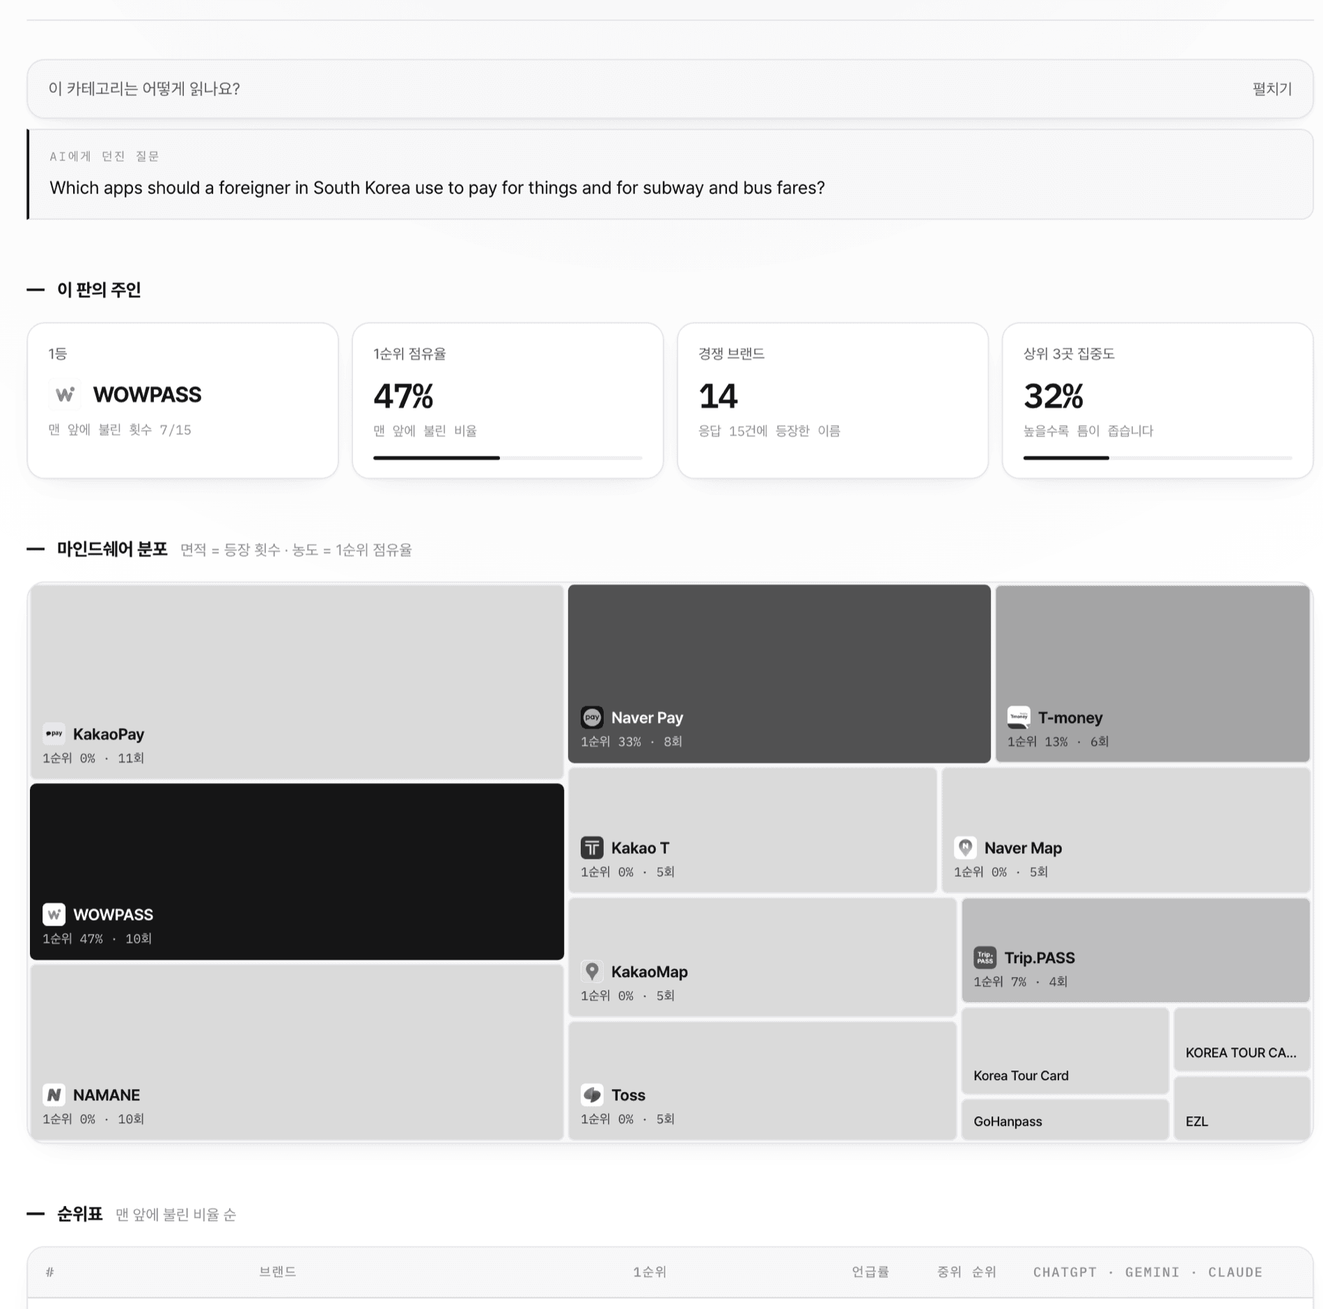
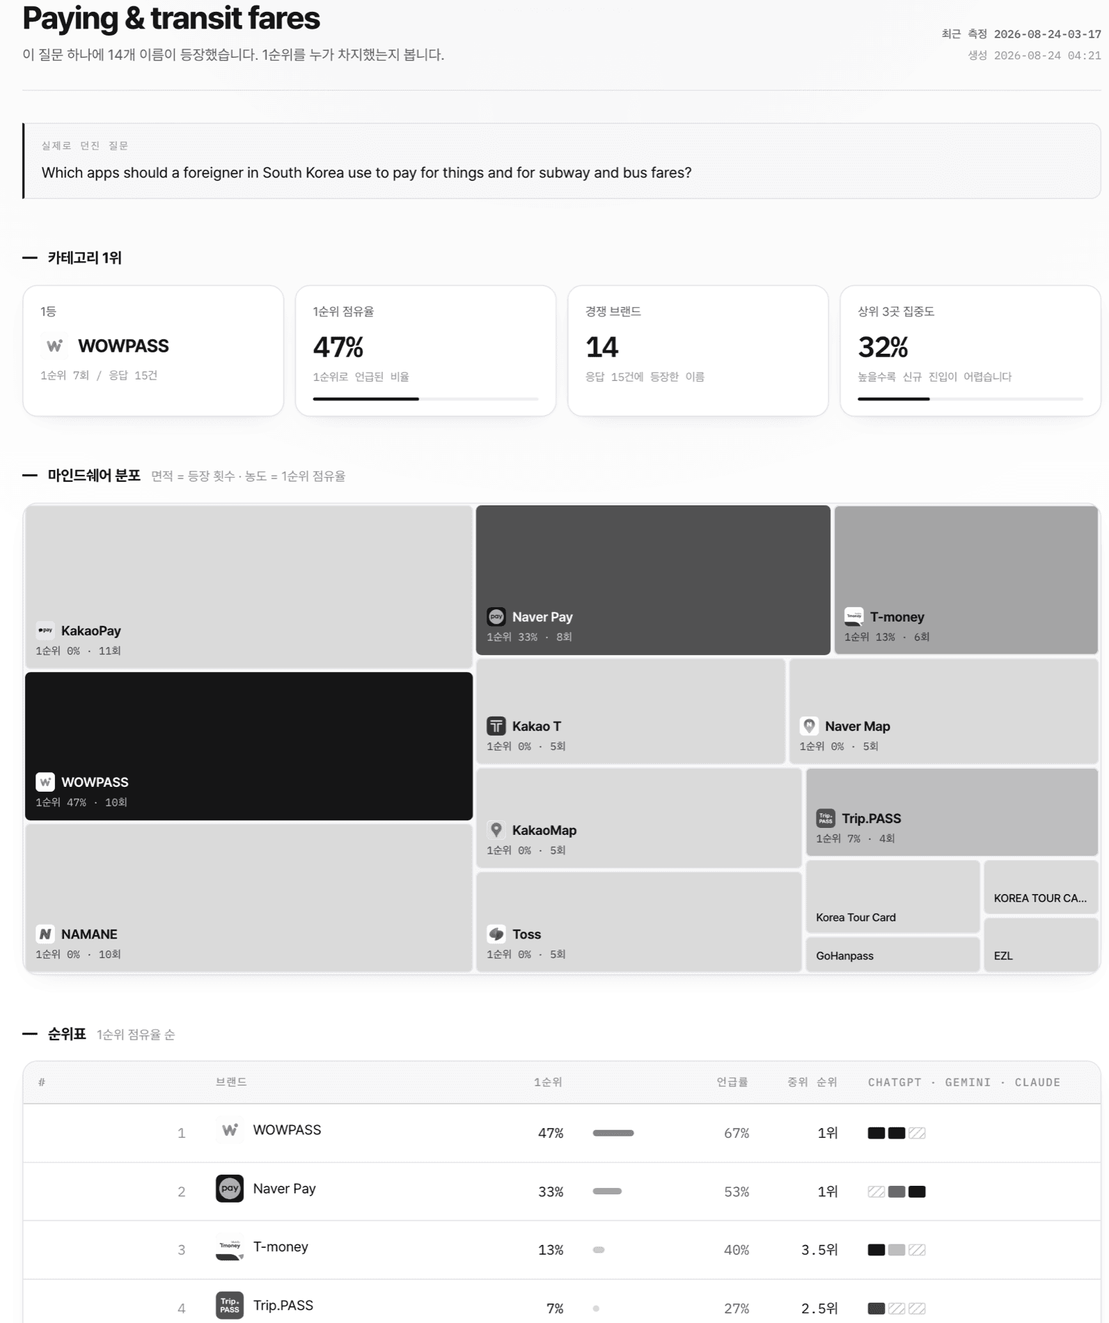
refactor(ui): 화면에서 설명 문단을 걷어낸다 — 듄·스릿지식 데이터 우선
데이터 플랫폼은 데이터를 보여줘야 한다. 차트마다 해설 문단이 붙어 있으면
읽는 사람이 숫자보다 글을 먼저 만난다. 듄은 쿼리 제목과 차트로 끝내고,
스릿지도 카드와 트리맵만 놓는다.

- 데이터 화면(홈·카테고리 8·판세·요약·경쟁 구도·진단·출처)의 note 문단을
  전부 제거. 남은 note 는 방법론·원문 증거·측정 실행·설정뿐이고, 그쪽은
  읽으라고 만든 화면이다
- 홈과 요약의 intro 에세이 블록 삭제. 헤더 부제가 이미 같은 말을 한다
- 추세 차트의 해설 문단을 범례로 교체(● 이동평균 / ○ 회차별 값 / ┆ 질문
  세트 교체). 밀도판·트리맵과 같은 방식으로 통일
- 도움말 아코디언을 화면 맨 아래로 이동. 설명이 필요한 사람은 펼치면 되고,
  기본 상태에서는 데이터가 먼저 온다

말투도 같이 정리했다. 앞 커밋에서 구어체로 넘어간 부분을 용어로 되돌렸다.
"여기는 이미 자리가 굳었습니다" → "1위가 고정된 카테고리입니다",
"새 이름이 끼기 어렵습니다" → "신규 진입이 어렵습니다",
"한 주제에서만 삽니다" → "한 질문에서만 등장합니다",
"사람은 대개 첫 줄만 읽으니까요" → "첫 줄만 읽고 넘어가는 사용자가 많습니다".
불리다·자리·판·주인 같은 표현을 언급·1순위·카테고리로 통일했다.

스크린샷 4장 교체.

diff --git a/web/public/app.js b/web/public/app.js
@@ -24,7 +24,7 @@ const BASE_VIEWS = [
   ["home", "카테고리 한눈에", "마인드쉐어", "카테고리마다 AI가 맨 앞에 부르는 이름을 모았습니다."],
   ["brands", "브랜드 프로필", "브랜드", "고른 브랜드가 어느 카테고리에 있고 어디가 비었는지."],
   ["summary", "요약", "브랜드", "고른 브랜드의 등장 빈도와 순위를 한 화면에 모았습니다."],
-  ["compete", "경쟁 구도", "브랜드", "자리를 대신 차지한 브랜드와 늘 함께 불리는 브랜드입니다."],
+  ["compete", "경쟁 구도", "브랜드", "1순위를 대신 차지한 브랜드와 함께 언급되는 브랜드입니다."],
   ["diagnose", "질문·모델 진단", "브랜드", "카테고리와 모델별로 어디가 약한지 밀도로 표시합니다."],
   ["sources", "출처", "브랜드", "답변에 붙은 출처 도메인입니다."],
   ["evidence", "원문 증거", "브랜드", "회차별 응답 원문의 저장 위치 색인."],
@@ -37,7 +37,7 @@ const BASE_VIEWS = [
 function allViews() {
   const cats = (DATA?.categories ?? []).map((c) => [
     `cat:${c.id}`, c.short, "카테고리",
-    `이 질문 하나를 두고 ${c.contenders}개 이름이 겹칩니다. 맨 앞자리를 누가 가져갔는지 봅니다.`,
+    `이 질문 하나에 ${c.contenders}개 이름이 등장했습니다. 1순위를 누가 차지했는지 봅니다.`,
   ])
   const [home, ...rest] = BASE_VIEWS
   return [home, ...cats, ...rest]
@@ -107,14 +107,14 @@ function sparkline(points, { w = 640, h = 140 } = {}) {
     `</svg>`,
   ].join("")
 
+  // 범례로 끝낸다. 문단 설명은 화면 아래 도움말이 담당한다.
   const protos = [...new Set(points.map((p) => p.protocol))]
-  const notes = ["채운 점과 실선은 이동평균, 빈 점은 회차별 값. 표본이 작아 회차별 변동이 큽니다."]
-  if (protos.length > 1) {
-    notes.push("점선은 <b>질문 세트가 바뀐 지점</b>. 앞뒤가 서로 다른 질문으로 잰 값이라 선을 잇지 않았습니다.")
-  } else if (points.length < 2) {
-    notes.push("현재 측정 시점이 1개입니다. 추세선은 다음 측정부터 그려집니다.")
-  }
-  return el("div", {}, el("div", { class: "chart", html: svg }), el("p", { class: "note", html: notes.join(" ") }))
+  const legend = el("div", { class: "ramp" },
+    el("span", {}, "● 이동평균"),
+    el("span", {}, "○ 회차별 값"),
+    protos.length > 1 ? el("span", {}, "┆ 질문 세트 교체") : null,
+    points.length < 2 ? el("span", {}, "측정 시점 1개 · 추세선은 다음 회차부터") : null)
+  return el("div", {}, el("div", { class: "chart", html: svg }), legend)
 }
 
 // 순위 분포 — 하나의 가로 막대에 쌓는다. 표로 나열하면 "미언급이 얼마나 큰 덩어리인가"가
@@ -345,22 +345,6 @@ function sortableTable(id, cols, rows, { highlight, initial } = {}) {
 }
 
 // ---------- 뷰 ----------
-function intro(b) {
-  const kr = "한국어 로컬 질문"
-  return el("div", { class: "intro" },
-    el("p", { class: "lead" },
-      "같은 질문을 여러 번 반복해서 모은 숫자입니다."),
-    el("p", {},
-      "AI는 같은 질문에도 매번 다르게 답합니다. 반복해서 물어야 우연과 경향이 갈립니다. " +
-      "질문에는 브랜드 이름을 넣지 않았고, 응답에 등장한 브랜드를 모두 집계했습니다."),
-    el("p", {},
-      "측정 도구는 직접 만들었고 코드와 응답 원문을 전부 공개합니다. 숫자가 어디서 나왔는지 직접 확인할 수 있습니다."),
-    el("p", { class: "byline" },
-      "최재원 · 측정 도구 ", el("a", { href: "https://github.com/choiaewoooon/geo-probe", target: "_blank", rel: "noopener" }, "geo-probe"),
-      " · 자세한 계산 규칙과 한계는 ", el("a", { href: "#", "data-go": "method" }, "방법론"), " 참조"),
-  )
-}
-
 function viewSummary(b) {
   const v = b.visibility
   const c = b.completeness
@@ -369,15 +353,12 @@ function viewSummary(b) {
   const cls = { 높음: "good", 중간: "warn", 낮음: "bad", 상승: "good", 하락: "bad" }
 
   return el("div", {},
-    intro(b),
     sourceSwitch(),
     el("div", { class: "pills" },
       el("span", { class: `pill ${cls[st.visibility] ?? ""}` }, "가시성 ", el("b", {}, st.visibility)),
       el("span", { class: `pill ${st.reproducibility === "높음" ? "good" : "warn"}` }, "결과 일관성 ", el("b", {}, st.reproducibility)),
       el("span", { class: `pill ${cls[st.direction] ?? ""}` }, "방향 ", el("b", {}, st.direction)),
     ),
-    el("p", { class: "note" },
-      "언급률·순위·점유율을 임의 가중치로 합치면 근거 없이 정밀해 보입니다. 그래서 종합 점수 대신 위 라벨만 둡니다."),
 
     el("h2", {}, "핵심 지표"),
     el("div", { class: "cards" },
@@ -438,10 +419,6 @@ function viewCompete(b) {
   return el("div", {},
     el("h2", {}, "점유율 분포", el("small", {}, "면적 = 등장 횟수 · 농도 = 점유율")),
     treemap(tiles, { me: b.brand, label: (t) => `${t.sov}% · ${t.value}회` }),
-    el("p", { class: "note", html:
-      `「자사」 표시가 붙은 칸이 <b>${b.brand}</b>. 등장이 많은 상위 ${tiles.length}곳만 그렸고, ` +
-      `전체 등장 ${allN}회 중 ${Math.round((shown / allN) * 100)}%를 덮습니다. ` +
-      "추적 질문 안에서 답변에 등장한 비율이며, <b>실제 시장 점유율과는 다릅니다.</b>" }),
 
     el("h2", {}, "추적 질문군 내 응답 점유율", el("small", {}, "실제 시장 점유율이 아닙니다")),
     sortableTable("sov", [
@@ -453,7 +430,6 @@ function viewCompete(b) {
       { key: "medianRank", label: "중위 순위", cls: "n", num: true, bestLow: true,
         render: (r) => (r.medianRank === null ? "-" : `${r.medianRank}위`) },
     ], b.shareOfVoice.slice(0, 20), { highlight: isMe, initial: { key: "appearances", dir: "desc" } }),
-    el("p", { class: "note" }, "열 제목을 누르면 그 기준으로 정렬됩니다. 한 번 더 누르면 방향이 바뀝니다."),
 
     el("h2", {}, "선택한 브랜드가 빠졌을 때 등장한 브랜드",
       el("small", {}, `${b.substitution.missedN}건 기준 · 한 응답에 여러 곳이 나와 합계는 100%를 넘을 수 있음`)),
@@ -483,9 +459,6 @@ function viewDiagnose(b) {
   return el("div", {},
     el("h2", {}, "밀도 매트릭스", el("small", {}, "질문 × 모델")),
     densityMatrix(b),
-    el("p", { class: "note", html:
-      "큰 숫자는 <b>언급됐을 때의 중위 순위</b>, 작은 숫자는 <b>언급 횟수 / 유효 응답</b>입니다. " +
-      "가장자리 점선 칸은 줄과 열의 합계입니다. 모델마다 검색 조건이 달라 열끼리 우열은 매기지 않습니다." }),
 
     el("h2", {}, "약한 조합", el("small", {}, `언급률 50% 미만 ${weak.length}개`)),
     weak.length
@@ -513,9 +486,7 @@ function viewSources(b) {
         html: "이번 측정에서는 어떤 모델도 응답에 출처 URL을 달지 않았습니다. " +
           "출처가 없으니 자사 도메인 인용률은 <b>측정 불가</b>로 적습니다. " +
           "출처를 주지 않은 것과 자사가 인용되지 않은 것은 서로 다른 사실입니다.",
-      }),
-      el("p", { class: "note" },
-        "출처를 재려면 웹 검색과 인용을 켠 모델 설정이 필요합니다. 자세한 조건은 방법론에."))
+      }),)
   }
   const q = c.quadrant
   return el("div", {},
@@ -534,8 +505,6 @@ function viewSources(b) {
       quad("외부 인식 중심 노출", q.외부인식_중심노출),
       quad("콘텐츠만 인용, 브랜드 연결 약함", q.콘텐츠만_사용),
       quad("미노출", q.미노출)),
-    el("p", { class: "note" },
-      "인용은 응답에 표시된 출처를 가리킵니다. 그 출처가 노출의 원인이라고 단정하지는 않습니다."),
   )
 }
 
@@ -901,19 +870,19 @@ const VIEW_HELP = {
     q: "이 화면은 무엇을 보여주나요?",
     body: [
       ["묻는 것", "<b>카테고리마다 AI가 누구를 맨 앞에 부르는지</b> 봅니다. 특정 브랜드를 기준으로 삼지 않습니다."],
-      ["1등의 기준", "목록 <b>맨 앞</b>에 불린 비율입니다. 사람은 대개 첫 줄만 읽으니까요."],
-      ["모델 분열", "세 모델이 서로 다른 1등을 꼽았습니다. <b>그 자리가 아직 비어 있다</b>는 신호입니다."],
-      ["브랜드 이름을 감춘 질문", "질문에 앱 이름을 하나도 넣지 않았습니다. 이름을 대고 물으면 모델이 그냥 설명해 주니까요."],
+      ["1등의 기준", "목록 <b>1순위</b>로 언급된 비율입니다. 첫 줄만 읽고 넘어가는 사용자가 많습니다."],
+      ["모델 분열", "세 모델이 서로 다른 1위를 꼽았습니다. <b>1위가 아직 고정되지 않았다</b>는 신호입니다."],
+      ["브랜드 이름을 감춘 질문", "질문에 앱 이름을 하나도 넣지 않았습니다. 이름을 대고 물으면 모델이 그대로 설명해 줍니다."],
     ],
   },
   category: {
     q: "이 카테고리는 어떻게 읽나요?",
     body: [
-      ["1순위 점유율", "<b>목록 맨 앞</b>에 불린 비율입니다. 이 카테고리의 주인을 가리는 값입니다."],
+      ["1순위 점유율", "<b>목록 1순위</b>로 언급된 비율입니다. 카테고리 1위를 가리는 기준입니다."],
       ["언급률", "목록 <b>어디에든</b> 이름이 오른 비율입니다. 1순위와는 다른 값이라 둘을 같이 봐야 합니다."],
-      ["마인드쉐어 분포", "면적은 등장 횟수, 농도는 맨 앞에 온 횟수입니다. <b>크고 옅은 타일</b>이 늘 불리지만 1등은 못 되는 브랜드입니다."],
-      ["상위 3곳 집중도", "상위 3곳이 가져간 몫입니다. 높을수록 새 이름이 끼기 어렵습니다."],
-      ["모델별 1등", "1등이 갈리는지 자체가 신호입니다. 갈렸다면 그 카테고리는 아직 비어 있습니다."],
+      ["마인드쉐어 분포", "면적은 등장 횟수, 농도는 1순위 횟수입니다. <b>크고 옅은 타일</b>은 자주 언급되지만 1순위는 아닌 브랜드입니다."],
+      ["상위 3곳 집중도", "상위 3곳이 차지한 비중입니다. 높을수록 신규 진입이 어렵습니다."],
+      ["모델별 1등", "1위가 갈리는지 자체가 신호입니다. 갈렸다면 아직 고정되지 않은 카테고리입니다."],
     ],
   },
   field: {
@@ -921,7 +890,7 @@ const VIEW_HELP = {
     body: [
       ["한 번의 측정, 여러 브랜드", "질문에 브랜드 이름이 없으니 같은 응답을 브랜드만 바꿔 다시 채점할 수 있습니다. 여기 숫자는 전부 <b>같은 표본</b>에서 나왔습니다."],
       ["폭과 깊이를 왜 나누나요", "전체 언급률 하나로 줄세우면 한 주제만 담당하는 브랜드가 손해를 봅니다. <b>등장 질문 수</b>가 폭, <b>가장 센 질문의 언급률</b>이 깊이입니다."],
-      ["밀도판 읽는 법", "가로로 빗금이 이어지면 한 주제에서만 사는 브랜드입니다. 좁은 것과 약한 것은 손볼 방법이 다릅니다."],
+      ["밀도판 읽는 법", "가로로 빗금이 이어지면 한 질문에서만 등장하는 브랜드입니다. 노출 범위가 좁은 것과 노출 강도가 약한 것은 원인이 다릅니다."],
       ["줄을 누르면", "그 브랜드로 나머지 화면이 전환됩니다. 요약·경쟁 구도·진단이 선택한 브랜드 기준으로 다시 그려집니다."],
     ],
   },
@@ -935,7 +904,7 @@ const VIEW_HELP = {
       ["결과 일관성", "같은 질문을 반복했을 때 결과가 얼마나 일정한지 봅니다. 5번 모두 나오거나 모두 안 나오면 100%, 3번이면 60%입니다."],
       ["측정 완결성", "재려던 횟수 중 실제로 쓸 만한 응답이 온 비율입니다. 빈 응답을 빼고 계산하면 나머지 숫자가 부풀려집니다."],
       ["순위 분포", "가운데 값 하나로는 보이지 않는 흔들림입니다. 1위도 있고 미언급도 있는지 그대로 펼쳐 보여줍니다."],
-      ["우선 점검할 질문", "언급률이 낮고 같은 경쟁사가 반복해서 그 자리를 가져간 질문 순입니다. 여기부터 손보시면 됩니다."],
+      ["우선 점검할 질문", "언급률이 낮고 같은 경쟁사가 반복해서 1순위를 차지한 질문 순입니다. 개선 우선순위로 보시면 됩니다."],
     ],
   },
   compete: {
@@ -959,7 +928,7 @@ const VIEW_HELP = {
     body: [
       ["인용 도메인", "AI 답변에 표시된 출처 도메인을 보여줍니다. 선택한 브랜드의 도메인과 외부 도메인을 나눠 볼 수 있습니다."],
       ["자사 도메인 인용률", "출처가 표시된 응답 중 그 브랜드의 도메인이 포함된 비율입니다. 출처가 아예 없는 모델은 0%가 아니라 <b>측정 불가</b>로 표시합니다."],
-      ["노출 × 자사 출처", "브랜드 언급 여부와 자사 도메인 인용 여부를 조합한 네 칸입니다. <b>브랜드는 안 불리는데 콘텐츠만 인용된 칸</b>은 정보가 브랜드로 연결되지 않는다는 신호입니다."],
+      ["노출 × 자사 출처", "브랜드 언급 여부와 자사 도메인 인용 여부를 조합한 네 칸입니다. <b>브랜드는 언급되지 않고 콘텐츠만 인용된 칸</b>은 정보가 브랜드로 연결되지 않는다는 신호입니다."],
       ["한계", "여기서 인용은 응답에 표시된 출처일 뿐, 노출의 원인은 아닙니다."],
     ],
   },
@@ -1098,18 +1067,6 @@ function viewHome() {
   const split = cats.filter((c) => !c.leaderAgreed)
   const ds = DATA.dataset
   return el("div", {},
-    el("div", { class: "intro" },
-      el("p", { class: "lead" },
-        "AI에게 카테고리를 물으면 목록이 하나 나옵니다. 그 맨 앞자리를 누가 가져가는지 셌습니다."),
-      el("p", {},
-        `${ds ? `이 데이터셋은 ${ds.name}입니다. ` : ""}` +
-        `질문 ${cats.length}개를 모델 ${DATA.methodology.models.length}개에 각각 ` +
-        `${DATA.methodology.repeats}번씩 던져 ${cats.reduce((s, c) => s + c.V, 0)}건의 답변을 모았고, ` +
-        "응답에 등장한 이름을 모두 집계했습니다. 특정 브랜드를 기준으로 삼지 않습니다."),
-      el("p", { class: "byline" },
-        "카드를 누르면 그 카테고리 순위표로 이동 · 측정 도구 ",
-        el("a", { href: "https://github.com/choiaewoooon/geo-probe", target: "_blank", rel: "noopener" }, "geo-probe")),
-    ),
 
     el("h2", {}, "카테고리", el("small", {}, "큰 이름이 그 카테고리 1등입니다")),
     el("div", { class: "cgrid" }, cats.map(catCard)),
@@ -1125,8 +1082,6 @@ function viewHome() {
             DATA.methodology.models.map((m) => el("td", {},
               c.leaderByModel[m.id] ? named(c.leaderByModel[m.id], "sm") : "—")))))))
       : el("p", { class: "empty" }, "모든 카테고리에서 세 모델이 같은 1등을 꼽았습니다."),
-    el("p", { class: "note" },
-      "1등이 갈렸다는 건 아직 그 자리가 비어 있다는 뜻입니다. 모델마다 웹 검색 조건이 다른 탓도 섞여 있습니다."),
   )
 }
 
@@ -1144,21 +1099,21 @@ function viewCategory(id) {
   return el("div", {},
     el("p", { class: "prompt" }, el("span", {}, "실제로 던진 질문"), c.prompt ?? c.short),
 
-    el("h2", {}, "이 판의 주인"),
+    el("h2", {}, "카테고리 1위"),
     el("div", { class: "cards k4" },
       el("div", { class: "card" },
         el("div", { class: "k" }, "1등"),
         el("div", { class: "mlead" }, L ? logo(L.name, "md") : null, el("b", {}, L?.name ?? "—")),
-        el("div", { class: "n" }, L ? `맨 앞에 불린 횟수 ${L.firsts}/${c.V}` : "")),
-      card("1순위 점유율", dash(L?.firstRate, "%"), "목록 맨 앞에 불린 비율", false, L?.firstRate),
+        el("div", { class: "n" }, L ? `1순위 ${L.firsts}회 / 응답 ${c.V}건` : "")),
+      card("1순위 점유율", dash(L?.firstRate, "%"), "1순위로 언급된 비율", false, L?.firstRate),
       card("경쟁 브랜드", c.contenders, `응답 ${c.V}건에 등장한 이름`),
-      card("상위 3곳 집중도", dash(c.concentration, "%"), "높을수록 새 이름이 끼기 어렵습니다", false, c.concentration),
+      card("상위 3곳 집중도", dash(c.concentration, "%"), "높을수록 신규 진입이 어렵습니다", false, c.concentration),
     ),
 
     el("h2", {}, "마인드쉐어 분포", el("small", {}, "면적 = 등장 횟수 · 농도 = 1순위 점유율")),
     treemap(tiles, { density: (t) => t.firstRate, label: (t) => `1순위 ${t.firstRate}% · ${t.value}회` }),
 
-    el("h2", {}, "순위표", el("small", {}, "맨 앞에 불린 비율 순")),
+    el("h2", {}, "순위표", el("small", {}, "1순위 점유율 순")),
     el("div", { class: "scroll" }, (() => {
       const table = el("table", {},
         el("thead", {}, el("tr", {},
@@ -1175,7 +1130,7 @@ function viewCategory(id) {
         },
           el("td", { class: "n", style: "color:var(--dim2);font-family:var(--mono)" }, i + 1),
           el("td", {}, named(e.name, "md", e.rate >= 60 && e.firstRate === 0
-            ? el("span", { class: "tag" }, "늘 불리지만 1등은 아님") : null)),
+            ? el("span", { class: "tag" }, "언급률 높음, 1순위 아님") : null)),
           el("td", { class: "n" }, dash(e.firstRate, "%")),
           el("td", { style: "width:110px" }, el("span", {
             class: "bar",
@@ -1198,9 +1153,6 @@ function viewCategory(id) {
       })
       return table
     })()),
-    el("p", { class: "note", html:
-      "언급률이 높은데 1순위가 0%면 후보에는 꾸준히 오르지만 첫 자리는 못 잡고 있다는 뜻입니다. " +
-      "추적 중인 브랜드는 줄을 누르면 프로필이 열립니다." }),
 
     el("h2", {}, "모델별 1등"),
     el("div", { class: "cards" }, models.map((m) => {
@@ -1210,10 +1162,6 @@ function viewCategory(id) {
         el("div", { class: "mlead" }, w ? logo(w, "md") : null, el("b", {}, w ?? "—")),
         el("div", { class: "n" }, m.webSearch ? "웹 검색 ON" : "웹 검색 OFF"))
     })),
-    el("p", { class: "note" },
-      c.leaderAgreed
-        ? "세 모델이 같은 이름을 맨 앞에 놓았습니다. 여기는 이미 자리가 굳었습니다."
-        : "모델마다 맨 앞에 놓는 이름이 다릅니다. 검색 조건도 제각각이라 어느 쪽이 맞다고 읽지는 않습니다."),
   )
 }
 
@@ -1255,10 +1203,6 @@ function viewField() {
   const models = [...new Set(list[0]?.matrix.map((c) => c.model) ?? [])]
 
   return el("div", {},
-    el("p", { class: "note", html:
-      `같은 응답 묶음을 브랜드마다 다시 채점했습니다. 질문에 <b>브랜드 이름을 넣지 않았기</b> 때문에, ` +
-      `${list.length}개 브랜드가 같은 ${list[0]?.visibility.V ?? 0}건의 답변 위에서 비교됩니다. ` +
-      `줄을 누르면 그 브랜드로 나머지 화면이 바뀝니다.` }),
 
     el("h2", {}, "브랜드별 가시성", el("small", {}, "폭과 깊이를 따로 봅니다")),
     el("div", { class: "scroll" }, (() => {
@@ -1299,14 +1243,8 @@ function viewField() {
       return table
     })()),
 
-    el("p", { class: "note", html:
-      "한 주제만 담당하는 앱은 전체 언급률이 낮게 나옵니다. 8개 질문 중 하나를 다 가져가도 13%가 끝입니다. " +
-      "그래서 <b>등장 질문 수</b>와 <b>가장 센 질문의 언급률</b>을 앞에 두고 전체 언급률은 뒤로 뺐습니다." }),
-
-    el("h2", {}, "질문별로 누가 불리는가", el("small", {}, "브랜드 × 질문")),
+    el("h2", {}, "질문별 1순위 분포", el("small", {}, "브랜드 × 질문")),
     fieldMatrix(list),
-    el("p", { class: "note" },
-      "가로로 빗금이 이어지면 그 브랜드는 한 주제에서만 삽니다. 세로로 이어지면 그 질문에 답이 몰려 있습니다."),
   )
 }
 
@@ -1388,9 +1326,10 @@ function show(key) {
   }
   const app = $("#app")
   app.innerHTML = ""
+  // 데이터가 먼저다. 설명은 화면 맨 아래에 접어 둔다.
+  app.append(renderFor(key)(BRAND))
   const help = viewHelp(key)
   if (help) app.append(help)
-  app.append(renderFor(key)(BRAND))
   for (const btn of $("#nav").querySelectorAll("button")) {
     btn.setAttribute("aria-selected", String(btn.dataset.k === key))
   }

diff --git a/web/public/index.html b/web/public/index.html
@@ -421,7 +421,7 @@ summary:hover{background:var(--panel2)}
 details[open] summary{border-bottom:1px solid var(--line)}
 details pre{margin:0;padding:15px 16px;font-size:11.5px;font-family:var(--mono);
   white-space:pre-wrap;color:var(--dim);max-height:340px;overflow:auto;line-height:1.7}
-details.help{background:var(--panel2)}
+details.help{background:var(--panel2);margin-top:44px}
 details.help summary{color:var(--dim);font-size:13px}
 details.help[open] summary{color:var(--tx);font-weight:650}
 details.help p{color:var(--dim);font-size:12.5px;line-height:1.7}
@@ -559,6 +559,6 @@ footer{color:var(--dim2);font-size:12px;border-top:1px solid var(--line);margin-
   document.addEventListener("DOMContentLoaded",sync); sync();
 })();
 </script>
-<script type="module" src="./app.js?v=63"></script>
+<script type="module" src="./app.js?v=72"></script>
 </body>
 </html>
